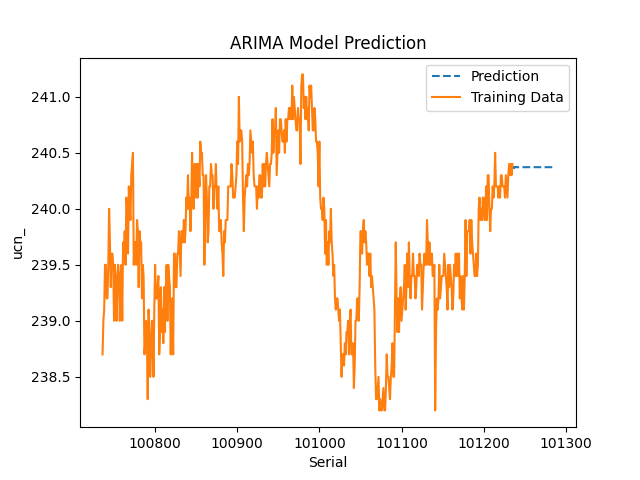
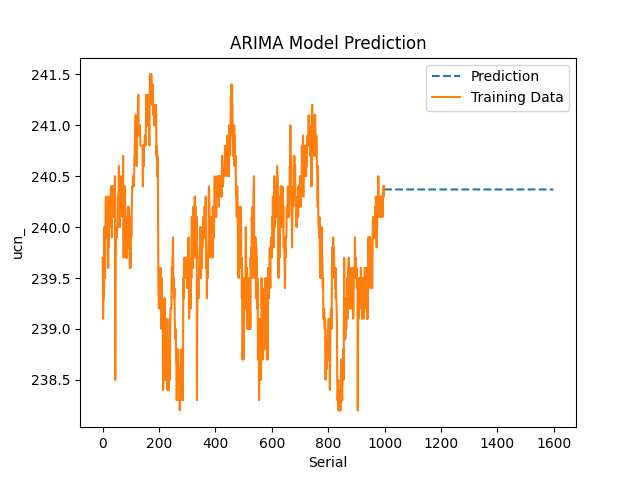
fix: dbg for pg3.

diff --git a/forecast/lib/regression.py b/forecast/lib/regression.py
@@ -34,8 +34,8 @@ def AR(pk: int, target, order, window, step) -> np.ndarray:
     plt.switch_backend('Agg')
 
     plt.clf()
-    plt.plot(list(range(len(data), len(data)+step)), forecast, label='Prediction', linestyle='--')
-    plt.plot(list(range(len(data)-window, len(data))), training_window, label='Training Data', linestyle='-')
+    plt.plot(list(range(window, window+step)), forecast, label='Prediction', linestyle='--')
+    plt.plot(list(range(window)), training_window, label='Training Data', linestyle='-')
     plt.xlabel('Serial')
     plt.ylabel(target)
     plt.title('AR Model Prediction')
@@ -68,11 +68,13 @@ def ARIMA_model(pk: int, target, order, window, step) -> pd.core.series.Series:
     
     forecast = arima_result.predict(start=len(training_window), end=len(training_window)+step-1, typ='levels')
     
+    print(forecast.values)
+
     plt.switch_backend('Agg')
 
     plt.clf()
-    plt.plot(forecast.index, forecast.values, label='Prediction', linestyle='--')
-    plt.plot(list(range(len(data)-window, len(data))), training_window, label='Training Data', linestyle='-')
+    plt.plot(list(range(window, window + step)), forecast.values, label='Prediction', linestyle='--')
+    plt.plot(list(range(window)), training_window, label='Training Data', linestyle='-')
     plt.xlabel('Serial')
     plt.ylabel(target)
     plt.title('ARIMA Model Prediction')
@@ -103,6 +105,18 @@ def Fbprophet(pk: int, target, window, step, periods, freq) -> pd.core.frame.Dat
     step: 预测数据步长，即使用模型预测后续多少个数据点
     periods: 预测数据的期数，即使用模型预测后续多少个数据点
     freq: 预测数据的频率
+        D: 天
+        H: 小时
+        T/min: 分钟
+        S: 秒
+        L/ms: 毫秒
+        U/us: 微秒
+        N/ns: 纳秒
+        B: 交易日
+        W: 每周
+        M: 月末
+        Q: 季度末
+        A/Y: 年末
     """
     window = int(window)
     step = int(step)
@@ -133,16 +147,16 @@ def Fbprophet(pk: int, target, window, step, periods, freq) -> pd.core.frame.Dat
     plt.switch_backend('Agg')
 
     plt.clf()
-    plt.plot(forecast['ds'], forecast['yhat'], label='Prediction', linestyle='--')
-    plt.plot(training_window['ds'], training_window['y'], label='Training Data', linestyle='-')
-    plt.xlabel('Date')
+    plt.plot(list(range(window, window + len(forecast))), forecast['yhat'], label='Prediction', linestyle='--')
+    plt.plot(list(range(window)), training_window['y'], label='Training Data', linestyle='-')
+    plt.xlabel('Serial')
     plt.ylabel(target)
     plt.title('Fbprophet Model Prediction')
     plt.legend()
 
     path = 'result/forecast_fbprophet_' + file.name + '.png'
     plt.savefig(path)
-
+    print(forecast)
     return forecast, path
     #                      ds        trend     yhat_lower  ...  multiplicative_terms_lower  multiplicative_terms_upper         yhat
     # 0   2023-04-23 08:51:43   239.238079     238.931432  ...                         0.0                         0.0   239.238079
